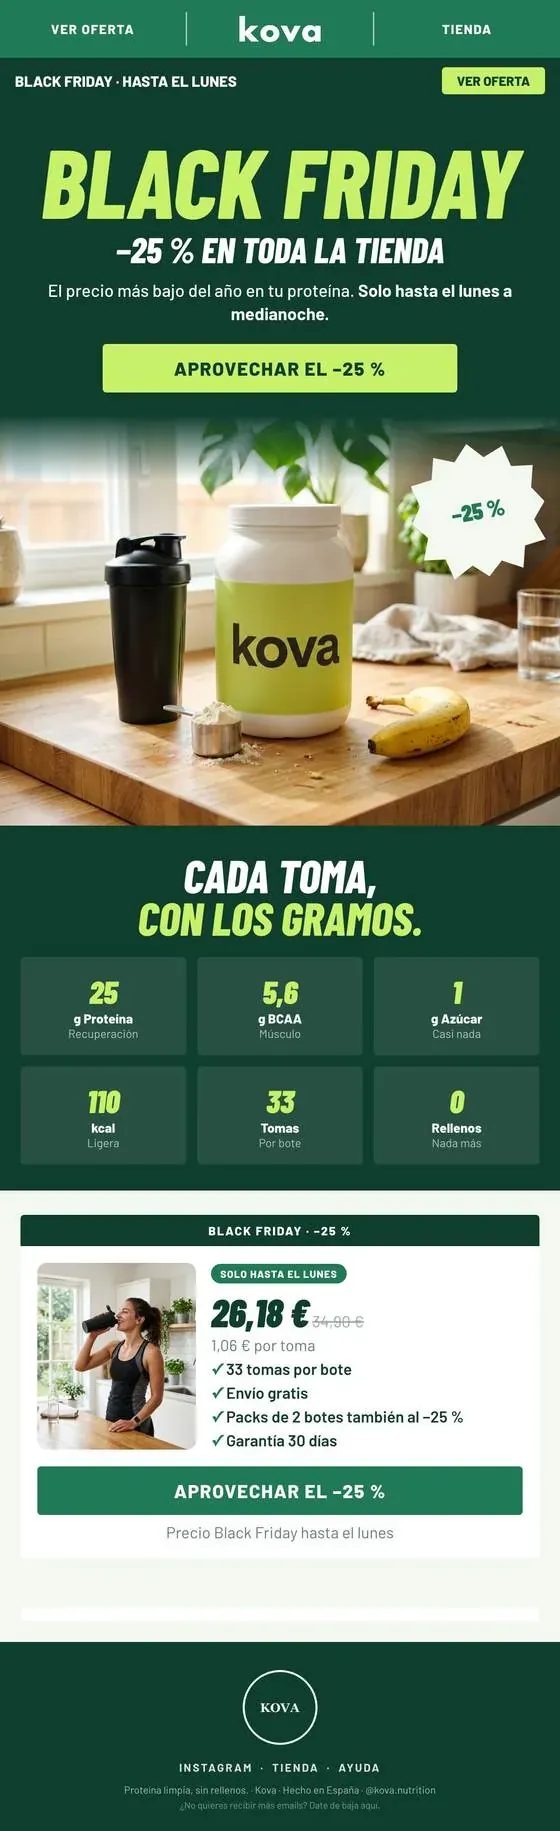
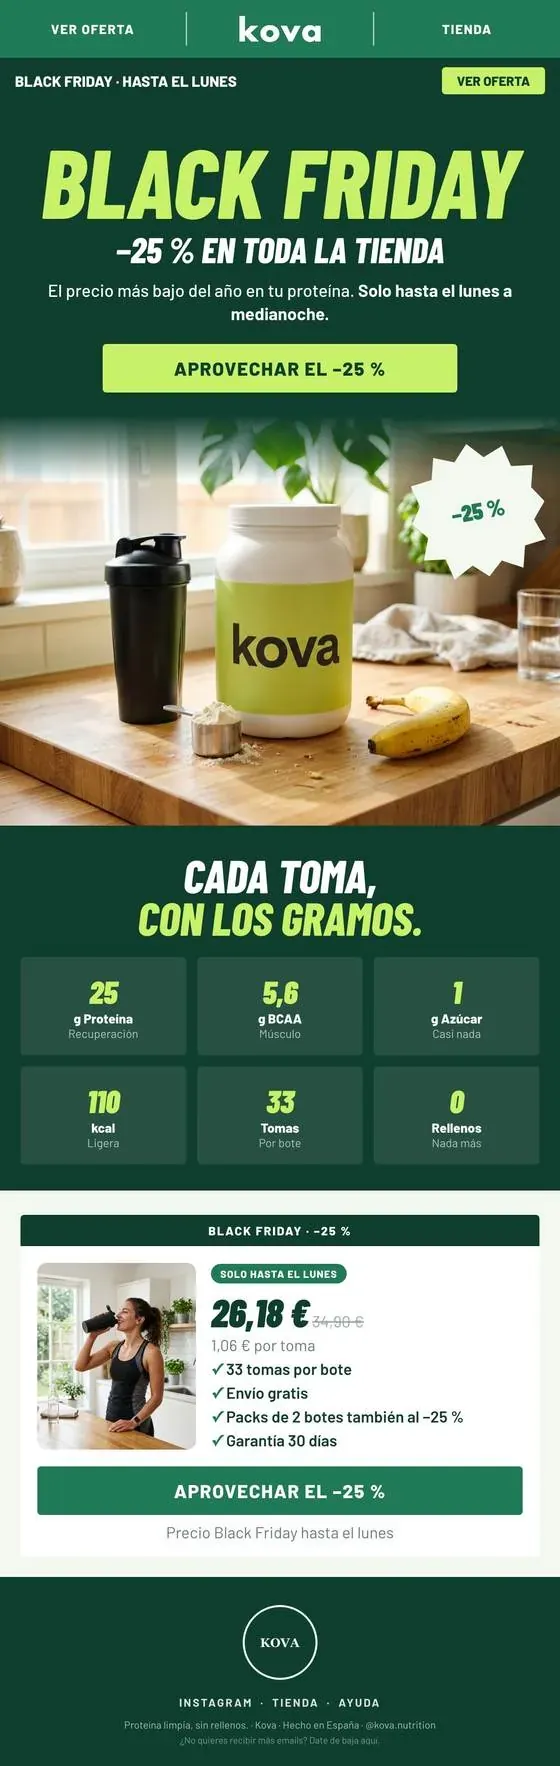
Volta y Kova: corte de borde de tarjeta a borde de tarjeta; fuera el hueco de 112 px y la tira blanca (P2 FALLOS_F)

diff --git a/c-ihcvv6a4oebf/bandeja-planes/index.html b/c-ihcvv6a4oebf/bandeja-planes/index.html
@@ -477,14 +477,14 @@ input[type=range]{width:100%;height:36px;margin:0;accent-color:var(--accent);tou
           <figure><a href="img/d-brava.webp" target="_blank" rel="noopener" style="--z:1.0491"><img loading="lazy" decoding="async" src="img/d-brava.webp" width="560" height="1362" alt="Carrito abandonado de Brava en estilo Retro"></a><figcaption><b>Brava</b> · Carrito abandonado · estilo Retro</figcaption></figure>
           <figure><a href="img/d-hidra.webp" target="_blank" rel="noopener"><img loading="lazy" decoding="async" src="img/d-hidra.webp" width="560" height="1807" alt="Bienvenida de Hidra en estilo Pulso"></a><figcaption><b>Hidra</b> · Bienvenida · estilo Pulso</figcaption></figure>
           <figure><a href="img/d-pisada.webp" target="_blank" rel="noopener"><img loading="lazy" decoding="async" src="img/d-pisada.webp" width="560" height="1421" alt="Post-compra de Pisada en estilo Chill y divertido"></a><figcaption><b>Pisada</b> · Post-compra · estilo Chill y divertido</figcaption></figure>
-          <figure><a href="img/d-kova.webp" target="_blank" rel="noopener"><img loading="lazy" decoding="async" src="img/d-kova.webp" width="560" height="1831" alt="Campaña Black Friday de Kova en estilo Deporte"></a><figcaption><b>Kova</b> · Campaña Black Friday · estilo Deporte</figcaption></figure>
+          <figure><a href="img/d-kova.webp" target="_blank" rel="noopener"><img loading="lazy" decoding="async" src="img/d-kova.webp" width="560" height="1766" alt="Campaña Black Friday de Kova en estilo Deporte"></a><figcaption><b>Kova</b> · Campaña Black Friday · estilo Deporte</figcaption></figure>
           <figure><a href="img/d-lumen.webp" target="_blank" rel="noopener"><img loading="lazy" decoding="async" src="img/d-lumen.webp" width="560" height="1705" alt="Producto visto de Lumen en estilo Clínico premium"></a><figcaption><b>Lumen</b> · Producto visto · estilo Clínico premium</figcaption></figure>
           <figure><a href="img/d-nomada.webp" target="_blank" rel="noopener" style="--z:1.0086"><img loading="lazy" decoding="async" src="img/d-nomada.webp" width="560" height="1722" alt="Lanzamiento de colección de Nómada en estilo Minimal"></a><figcaption><b>Nómada</b> · Lanzamiento de colección · estilo Minimal</figcaption></figure>
           <figure><a href="img/d-olmo.webp" target="_blank" rel="noopener"><img loading="lazy" decoding="async" src="img/d-olmo.webp" width="560" height="1809" alt="Campaña de Navidad de Olmo en estilo Editorial"></a><figcaption><b>Olmo</b> · Campaña de Navidad · estilo Editorial</figcaption></figure>
           <figure><a href="img/d-oriel.webp" target="_blank" rel="noopener"><img loading="lazy" decoding="async" src="img/d-oriel.webp" width="560" height="1389" alt="Reposición de Oriel en estilo Lujo"></a><figcaption><b>Oriel</b> · Reposición · estilo Lujo</figcaption></figure>
           <figure><a href="img/d-pomelo.webp" target="_blank" rel="noopener"><img loading="lazy" decoding="async" src="img/d-pomelo.webp" width="560" height="1807" alt="Recuperación de clientes de Pomelo en estilo Glossy"></a><figcaption><b>Pomelo</b> · Recuperación de clientes · estilo Glossy</figcaption></figure>
           <figure><a href="img/d-tierra.webp" target="_blank" rel="noopener"><img loading="lazy" decoding="async" src="img/d-tierra.webp" width="560" height="1362" alt="Checkout abandonado de Tierra en estilo Terroso"></a><figcaption><b>Tierra</b> · Checkout abandonado · estilo Terroso</figcaption></figure>
-          <figure><a href="img/d-volta.webp" target="_blank" rel="noopener" style="--z:1.0043"><img loading="lazy" decoding="async" src="img/d-volta.webp" width="560" height="1470" alt="Campaña último día de Volta en estilo Afiche bold"></a><figcaption><b>Volta</b> · Campaña último día · estilo Afiche bold</figcaption></figure>
+          <figure><a href="img/d-volta.webp" target="_blank" rel="noopener" style="--z:1.0043"><img loading="lazy" decoding="async" src="img/d-volta.webp" width="560" height="1417" alt="Campaña último día de Volta en estilo Afiche bold"></a><figcaption><b>Volta</b> · Campaña último día · estilo Afiche bold</figcaption></figure>
         </div>
         <p class="cuotas">Todos los precios son + IVA y ninguno tiene permanencia.</p>
       </div>

diff --git a/c-ihcvv6a4oebf/propuesta/index.html b/c-ihcvv6a4oebf/propuesta/index.html
@@ -402,14 +402,14 @@ footer nav a{display:inline-flex;align-items:center;min-height:44px;font-size:14
         <figure><a href="img/d-brava.webp" target="_blank" rel="noopener" style="--z:1.0491"><img loading="lazy" decoding="async" src="img/d-brava.webp" width="560" height="1362" alt="Carrito abandonado de Brava en estilo Retro"></a><figcaption><b>Brava</b> · Carrito abandonado · estilo Retro</figcaption></figure>
         <figure><a href="img/d-hidra.webp" target="_blank" rel="noopener"><img loading="lazy" decoding="async" src="img/d-hidra.webp" width="560" height="1807" alt="Bienvenida de Hidra en estilo Pulso"></a><figcaption><b>Hidra</b> · Bienvenida · estilo Pulso</figcaption></figure>
         <figure><a href="img/d-pisada.webp" target="_blank" rel="noopener"><img loading="lazy" decoding="async" src="img/d-pisada.webp" width="560" height="1421" alt="Post-compra de Pisada en estilo Chill y divertido"></a><figcaption><b>Pisada</b> · Post-compra · estilo Chill y divertido</figcaption></figure>
-        <figure><a href="img/d-kova.webp" target="_blank" rel="noopener"><img loading="lazy" decoding="async" src="img/d-kova.webp" width="560" height="1831" alt="Campaña Black Friday de Kova en estilo Deporte"></a><figcaption><b>Kova</b> · Campaña Black Friday · estilo Deporte</figcaption></figure>
+        <figure><a href="img/d-kova.webp" target="_blank" rel="noopener"><img loading="lazy" decoding="async" src="img/d-kova.webp" width="560" height="1766" alt="Campaña Black Friday de Kova en estilo Deporte"></a><figcaption><b>Kova</b> · Campaña Black Friday · estilo Deporte</figcaption></figure>
         <figure><a href="img/d-lumen.webp" target="_blank" rel="noopener"><img loading="lazy" decoding="async" src="img/d-lumen.webp" width="560" height="1705" alt="Producto visto de Lumen en estilo Clínico premium"></a><figcaption><b>Lumen</b> · Producto visto · estilo Clínico premium</figcaption></figure>
         <figure><a href="img/d-nomada.webp" target="_blank" rel="noopener" style="--z:1.0086"><img loading="lazy" decoding="async" src="img/d-nomada.webp" width="560" height="1722" alt="Lanzamiento de colección de Nómada en estilo Minimal"></a><figcaption><b>Nómada</b> · Lanzamiento de colección · estilo Minimal</figcaption></figure>
         <figure><a href="img/d-olmo.webp" target="_blank" rel="noopener"><img loading="lazy" decoding="async" src="img/d-olmo.webp" width="560" height="1809" alt="Campaña de Navidad de Olmo en estilo Editorial"></a><figcaption><b>Olmo</b> · Campaña de Navidad · estilo Editorial</figcaption></figure>
         <figure><a href="img/d-oriel.webp" target="_blank" rel="noopener"><img loading="lazy" decoding="async" src="img/d-oriel.webp" width="560" height="1389" alt="Reposición de Oriel en estilo Lujo"></a><figcaption><b>Oriel</b> · Reposición · estilo Lujo</figcaption></figure>
         <figure><a href="img/d-pomelo.webp" target="_blank" rel="noopener"><img loading="lazy" decoding="async" src="img/d-pomelo.webp" width="560" height="1807" alt="Recuperación de clientes de Pomelo en estilo Glossy"></a><figcaption><b>Pomelo</b> · Recuperación de clientes · estilo Glossy</figcaption></figure>
         <figure><a href="img/d-tierra.webp" target="_blank" rel="noopener"><img loading="lazy" decoding="async" src="img/d-tierra.webp" width="560" height="1362" alt="Checkout abandonado de Tierra en estilo Terroso"></a><figcaption><b>Tierra</b> · Checkout abandonado · estilo Terroso</figcaption></figure>
-        <figure><a href="img/d-volta.webp" target="_blank" rel="noopener" style="--z:1.0043"><img loading="lazy" decoding="async" src="img/d-volta.webp" width="560" height="1470" alt="Campaña último día de Volta en estilo Afiche bold"></a><figcaption><b>Volta</b> · Campaña último día · estilo Afiche bold</figcaption></figure>
+        <figure><a href="img/d-volta.webp" target="_blank" rel="noopener" style="--z:1.0043"><img loading="lazy" decoding="async" src="img/d-volta.webp" width="560" height="1417" alt="Campaña último día de Volta en estilo Afiche bold"></a><figcaption><b>Volta</b> · Campaña último día · estilo Afiche bold</figcaption></figure>
       </div>
     </div>
 

diff --git a/c-ihcvv6a4oebf/1-bandeja/index.html b/c-ihcvv6a4oebf/1-bandeja/index.html
@@ -85,7 +85,7 @@
             <li><a class="row mail" href="img/muestra/d-nomada.webp" data-i="5" data-full="img/muestra/d-nomada.webp" data-h="1722" data-cap="Lanzamiento de colección · Nómada · marca de muestra" data-from="Nómada"><span class="thumb"><img src="img/muestra/d-nomada_th.webp" width="300" height="420" alt="Diseño de muestra: lanzamiento de colección de Nómada, estilo Minimal."></span><span class="row-txt"><span class="row-from">Nómada <i class="chip">Lanzamiento de colección</i></span><span class="row-subj">Estilo Minimal</span><span class="row-prev">Marca de muestra</span></span><span class="row-go" aria-hidden="true"><i class="dot"></i>›</span></a></li>
             <li><a class="row mail" href="img/muestra/d-lumen.webp" data-i="6" data-full="img/muestra/d-lumen.webp" data-h="1705" data-cap="Producto visto · Lumen · marca de muestra" data-from="Lumen"><span class="thumb"><img src="img/muestra/d-lumen_th.webp" width="300" height="420" loading="lazy" alt="Diseño de muestra: producto visto de Lumen, estilo Clínico premium."></span><span class="row-txt"><span class="row-from">Lumen <i class="chip">Producto visto</i></span><span class="row-subj">Estilo Clínico premium</span><span class="row-prev">Marca de muestra</span></span><span class="row-go" aria-hidden="true"><i class="dot"></i>›</span></a></li>
             <li><a class="row mail" href="img/muestra/d-pisada.webp" data-i="7" data-full="img/muestra/d-pisada.webp" data-h="1421" data-cap="Post-compra · Pisada · marca de muestra" data-from="Pisada"><span class="thumb"><img src="img/muestra/d-pisada_th.webp" width="300" height="420" loading="lazy" alt="Diseño de muestra: post-compra de Pisada, estilo Chill y divertido."></span><span class="row-txt"><span class="row-from">Pisada <i class="chip">Post-compra</i></span><span class="row-subj">Estilo Chill y divertido</span><span class="row-prev">Marca de muestra</span></span><span class="row-go" aria-hidden="true"><i class="dot"></i>›</span></a></li>
-            <li><a class="row mail" href="img/muestra/d-kova.webp" data-i="8" data-full="img/muestra/d-kova.webp" data-h="1831" data-cap="Campaña Black Friday · Kova · marca de muestra" data-from="Kova"><span class="thumb"><img src="img/muestra/d-kova_th.webp" width="300" height="420" loading="lazy" alt="Diseño de muestra: campaña black friday de Kova, estilo Deporte."></span><span class="row-txt"><span class="row-from">Kova <i class="chip">Campaña Black Friday</i></span><span class="row-subj">Estilo Deporte</span><span class="row-prev">Marca de muestra</span></span><span class="row-go" aria-hidden="true"><i class="dot"></i>›</span></a></li>
+            <li><a class="row mail" href="img/muestra/d-kova.webp" data-i="8" data-full="img/muestra/d-kova.webp" data-h="1766" data-cap="Campaña Black Friday · Kova · marca de muestra" data-from="Kova"><span class="thumb"><img src="img/muestra/d-kova_th.webp" width="300" height="420" loading="lazy" alt="Diseño de muestra: campaña black friday de Kova, estilo Deporte."></span><span class="row-txt"><span class="row-from">Kova <i class="chip">Campaña Black Friday</i></span><span class="row-subj">Estilo Deporte</span><span class="row-prev">Marca de muestra</span></span><span class="row-go" aria-hidden="true"><i class="dot"></i>›</span></a></li>
             <li><a class="row mail" href="img/muestra/d-oriel.webp" data-i="9" data-full="img/muestra/d-oriel.webp" data-h="1389" data-cap="Reposición · Oriel · marca de muestra" data-from="Oriel"><span class="thumb"><img src="img/muestra/d-oriel_th.webp" width="300" height="420" loading="lazy" alt="Diseño de muestra: reposición de Oriel, estilo Lujo."></span><span class="row-txt"><span class="row-from">Oriel <i class="chip">Reposición</i></span><span class="row-subj">Estilo Lujo</span><span class="row-prev">Marca de muestra</span></span><span class="row-go" aria-hidden="true"><i class="dot"></i>›</span></a></li>
           </ol>
           <p class="inbox-hint">Desliza y pulsa un email para verlo entero.</p>
